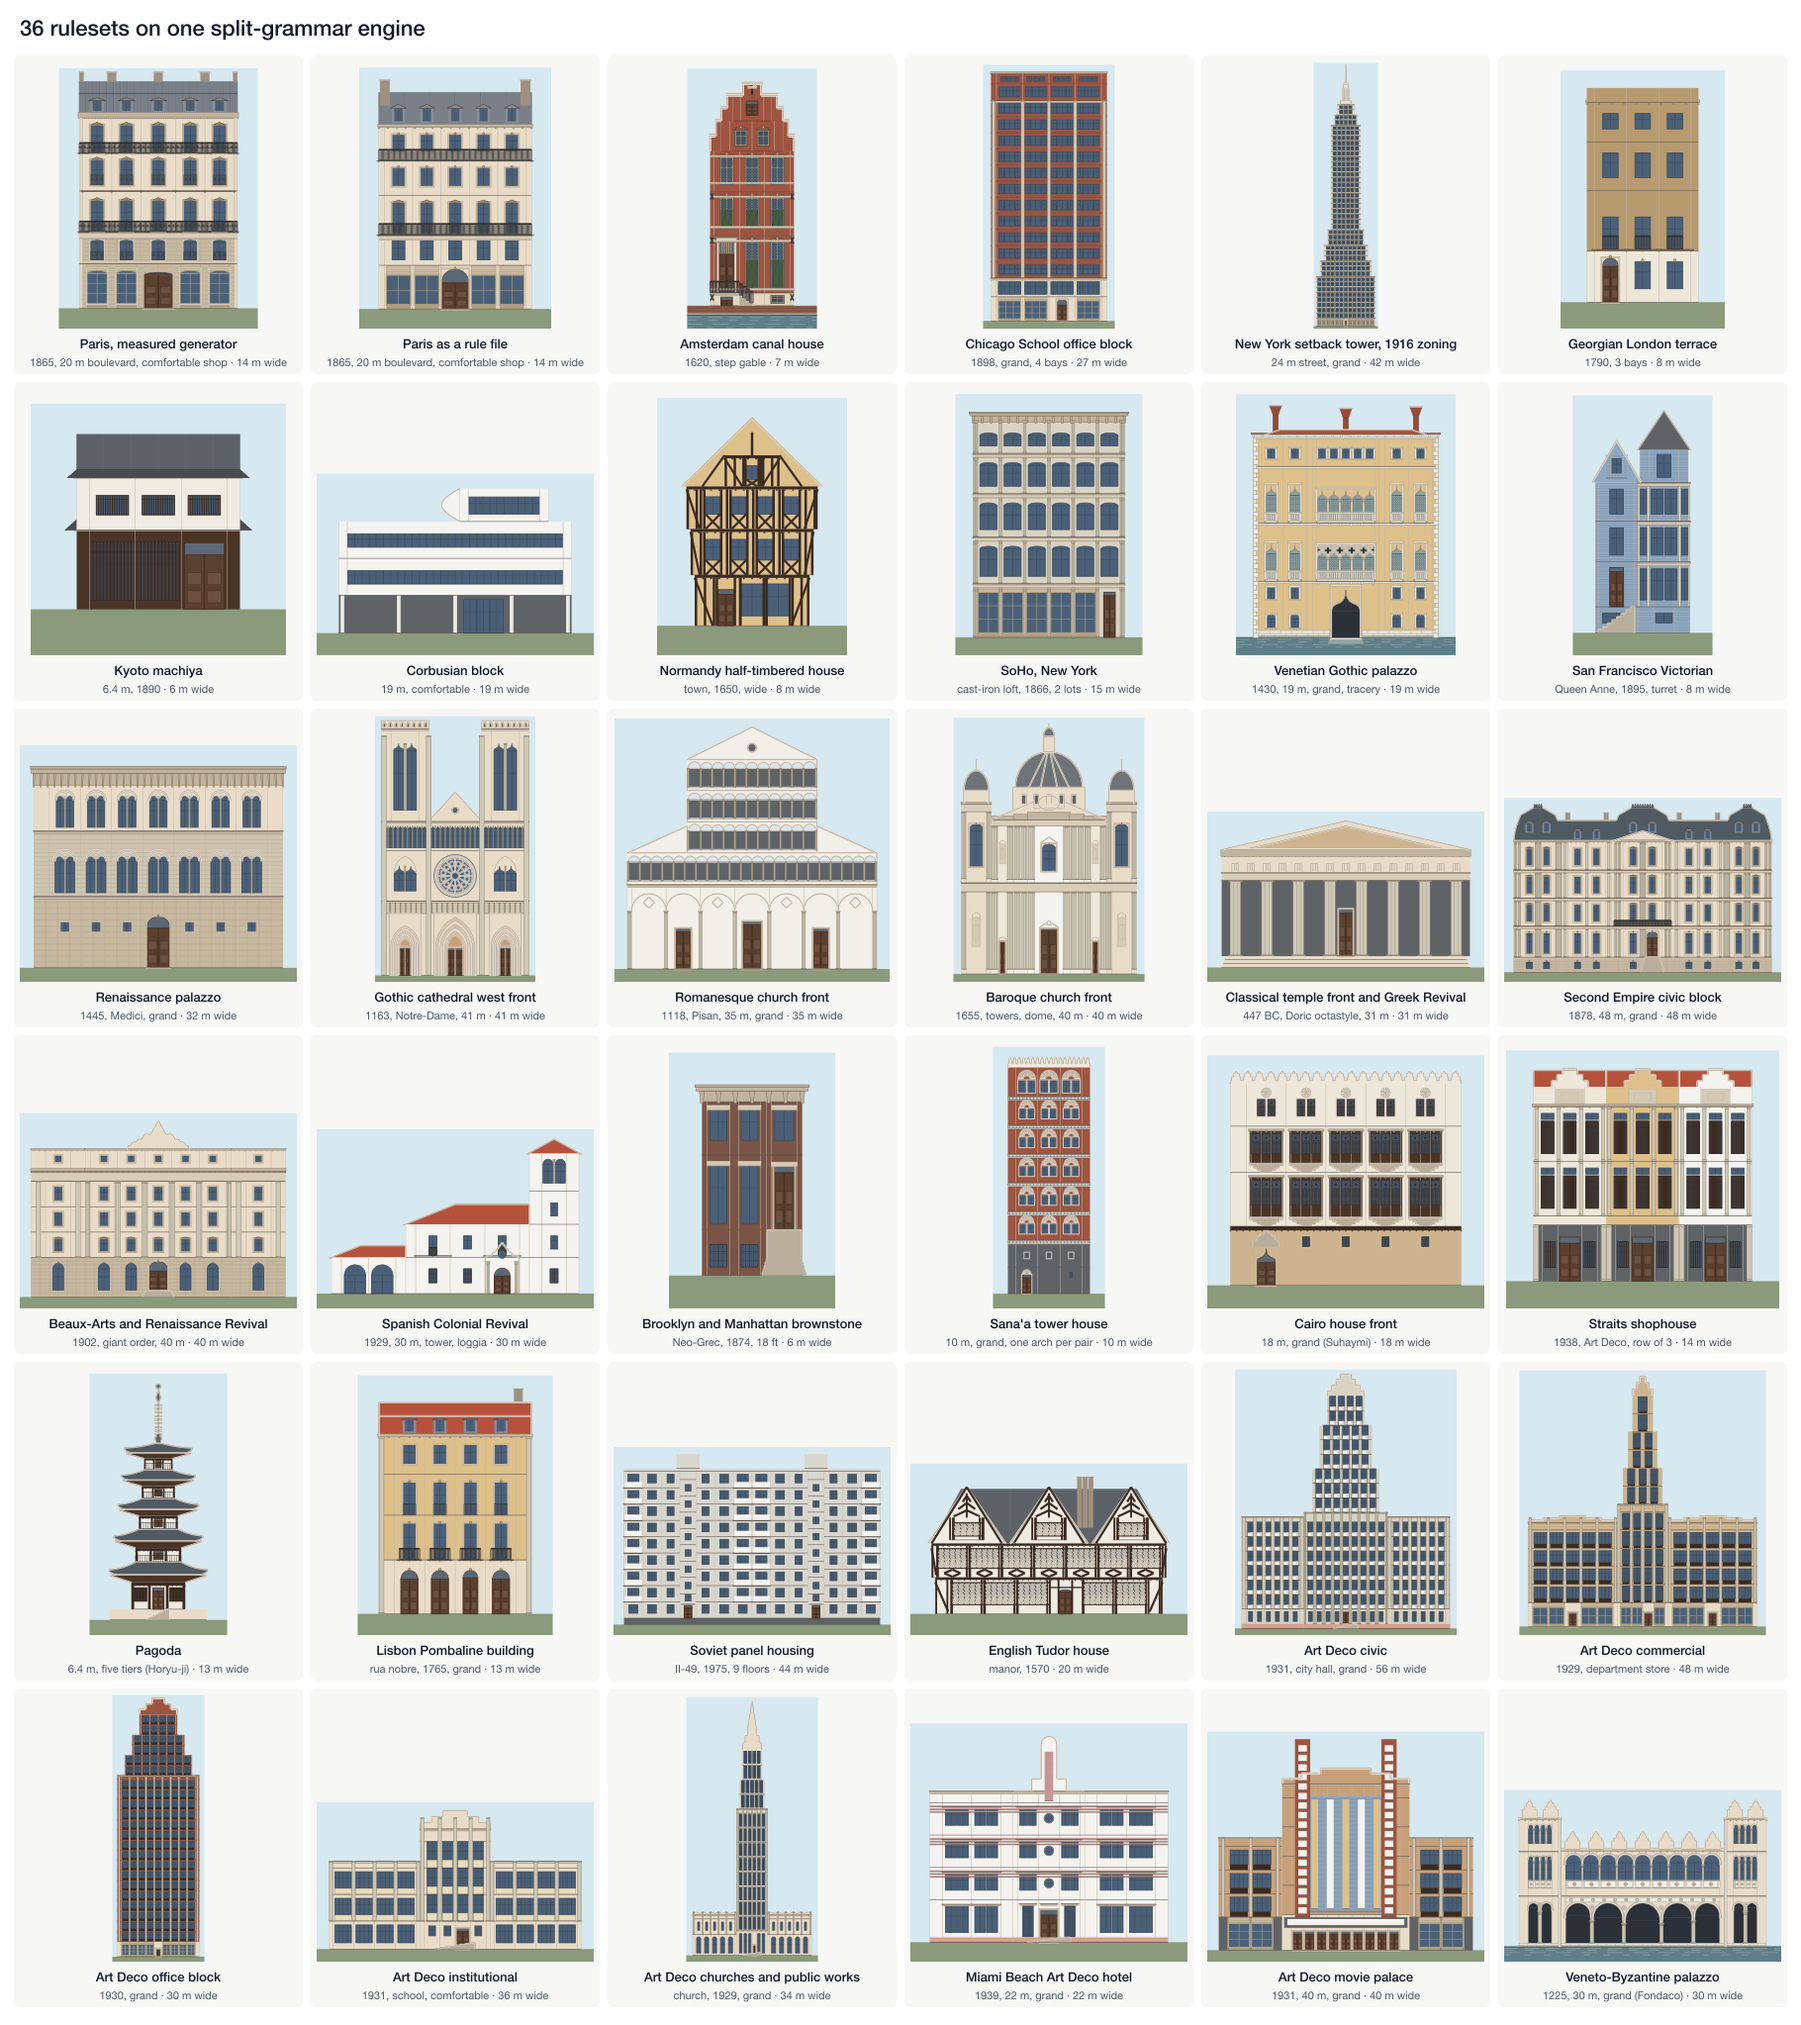
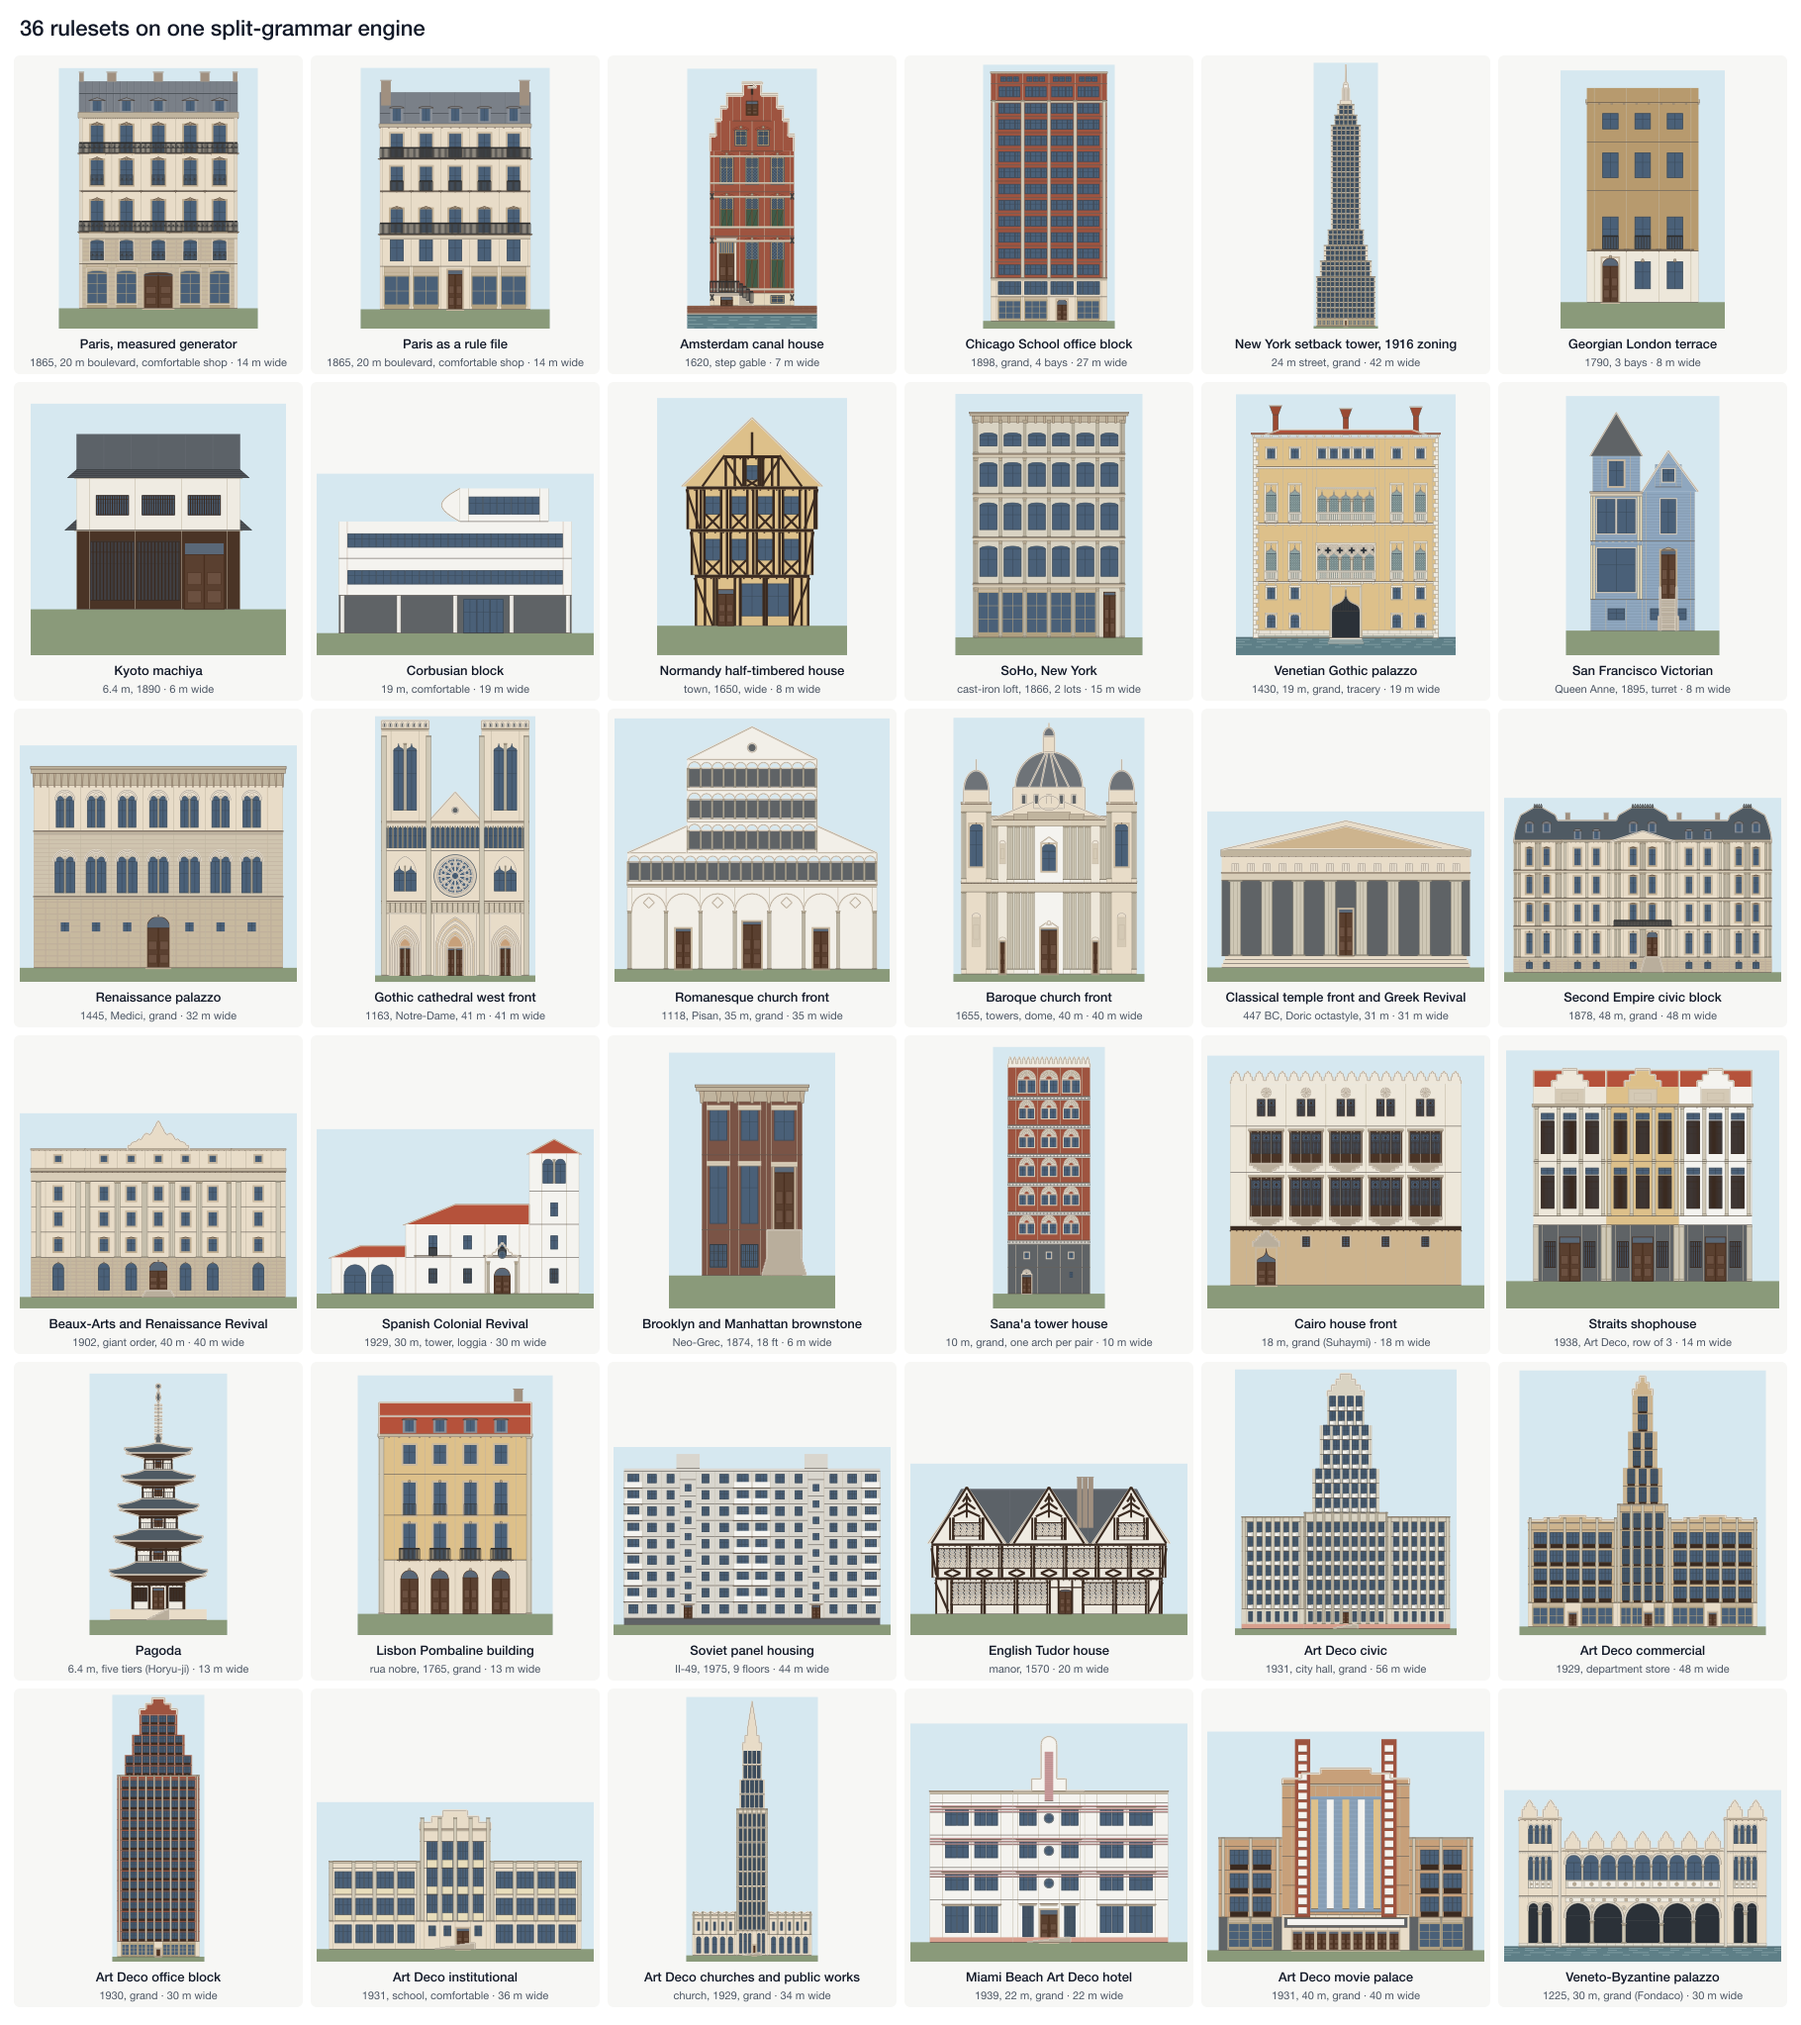
Paris rule file: apply the fidelity grading with weighted picks
Every etage window a porte-fenetre with a garde-corps; Daly's class ladder
for the noble floor and its window height; an entresol, low first floor or
nothing drawn over the ground; noble balconies never under 6 m; filants,
dormer count and form, door type and position by class and parity; a
pre-1884 comble inside 45 degrees and two-level combles by chance; the
stone never past the legal cornice. kit.write_roof takes an optional
mansard break (unchanged elsewhere). 97-98 distinct fronts per parcel.

Changed region(s): [[0.8615, 0.1848, 0.9538, 0.3387], [0.2154, 0.0616, 0.3077, 0.154]]

diff --git a/src/buildings/typologies/common/kit.py b/src/buildings/typologies/common/kit.py
@@ -373,19 +373,29 @@ def write_roof(roof: Shape, below: Sequence[Node], d) -> list[Node]:
     s = roof.scope
     eaves, ridge = s.y, s.y + s.h
     pitch = float(roof.attr("pitch", 40.0))
-    run = s.h / math.tan(math.radians(pitch))
+    # A mansard states its two slopes and where the brisis breaks; a plain
+    # roof states one pitch and no break.
+    lower = float(roof.attr("lower_pitch", pitch))
+    upper = float(roof.attr("upper_pitch", pitch))
+    brk = float(roof.attr("break_pct", 1.0))
+    if brk < 0.995:
+        bh = s.h * brk
+        x1 = bh / math.tan(math.radians(lower))
+        points = ((0.0, eaves), (x1, eaves + bh), (x1 + (s.h - bh) / math.tan(math.radians(upper)), ridge))
+    else:
+        points = ((0.0, eaves), (s.h / math.tan(math.radians(pitch)), ridge))
     return [
         RoofNode(
             id=roof.id,
             kind="roof",
             trace=tuple(roof.trace),
-            props={**xywh(s), "material": roof.attr("roof_material", "slate"), "seam_count": 6, "lower_angle_deg": pitch, "upper_angle_deg": pitch, "break_pct": 1.0},
+            props={**xywh(s), "material": roof.attr("roof_material", "slate"), "seam_count": 6, "lower_angle_deg": lower, "upper_angle_deg": upper, "break_pct": brk},
         ),
         SilhouetteNode(
             id=f"{roof.id}/silhouette",
             kind="silhouette",
             trace=tuple(roof.trace),
-            props={"x": 0.0, "y": 0.0, "w": s.w, "h": ridge, "eaves_height": eaves, "ridge_height": ridge, "points": ((0.0, eaves), (run, ridge))},
+            props={"x": 0.0, "y": 0.0, "w": s.w, "h": ridge, "eaves_height": eaves, "ridge_height": ridge, "points": points},
         ),
         *below,
     ]

diff --git a/tests/unit/test_variety.py b/tests/unit/test_variety.py
@@ -117,3 +117,16 @@ def test_a_new_draw_does_not_reshuffle_an_old_one(tmp_path):
 def test_pick_options_need_weights(tmp_path):
     with pytest.raises(RuleFileError):
         _style(tmp_path, _TOY + '\n[[rule]]\nid = "toy.bad"\nlabel = "Cell"\npick = { head = "round" }\n')
+
+
+@pytest.mark.parametrize("street,year,klass", [(20.0, 1865, "COMFORTABLE"), (12.0, 1890, "MODEST"), (30.0, 1868, "GRAND")])
+def test_a_hundred_seeds_give_a_hundred_paris_fronts_on_one_parcel(street, year, klass):
+    from buildings.site import GroundProgramme, SiteContext
+    from buildings.typologies.paris.rules import generate_haussmann
+
+    k = BuildingClass[klass]
+    designs = {
+        _coarse(generate_haussmann(SiteContext(street, 14.0, 14.0, year, k, GroundProgramme.SHOP, seed=s))[0])
+        for s in range(100)
+    }
+    assert len(designs) >= 80, len(designs)
